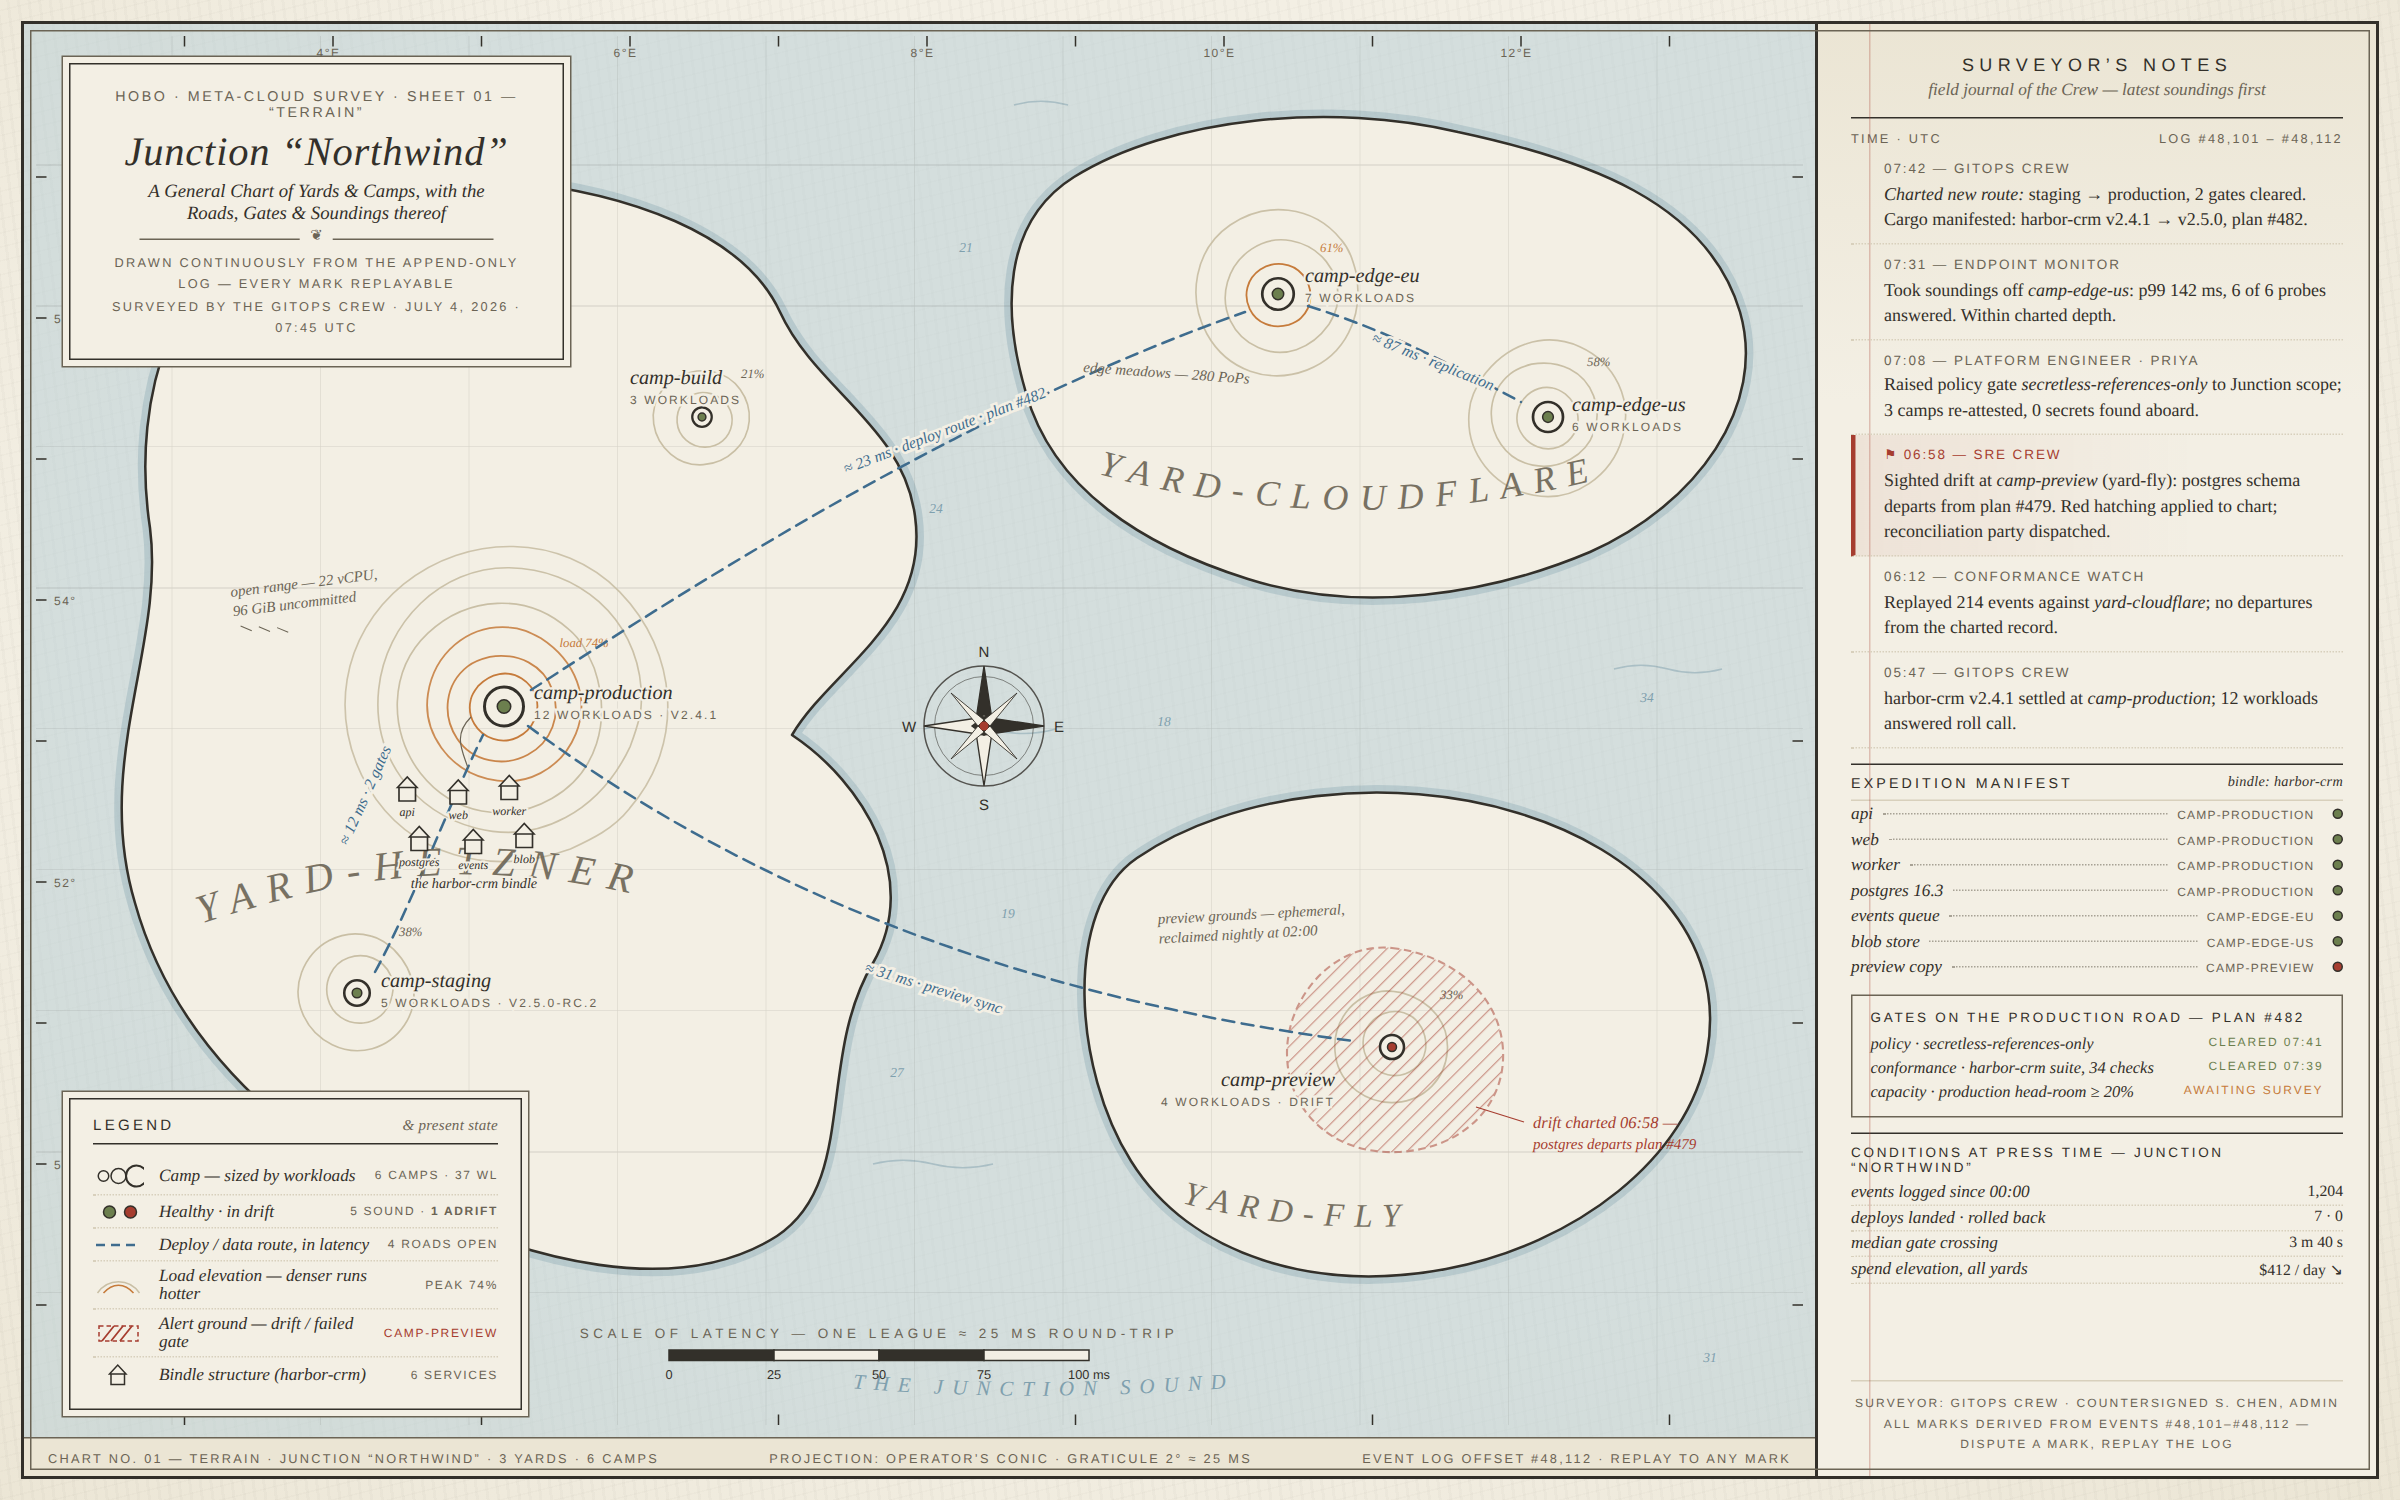
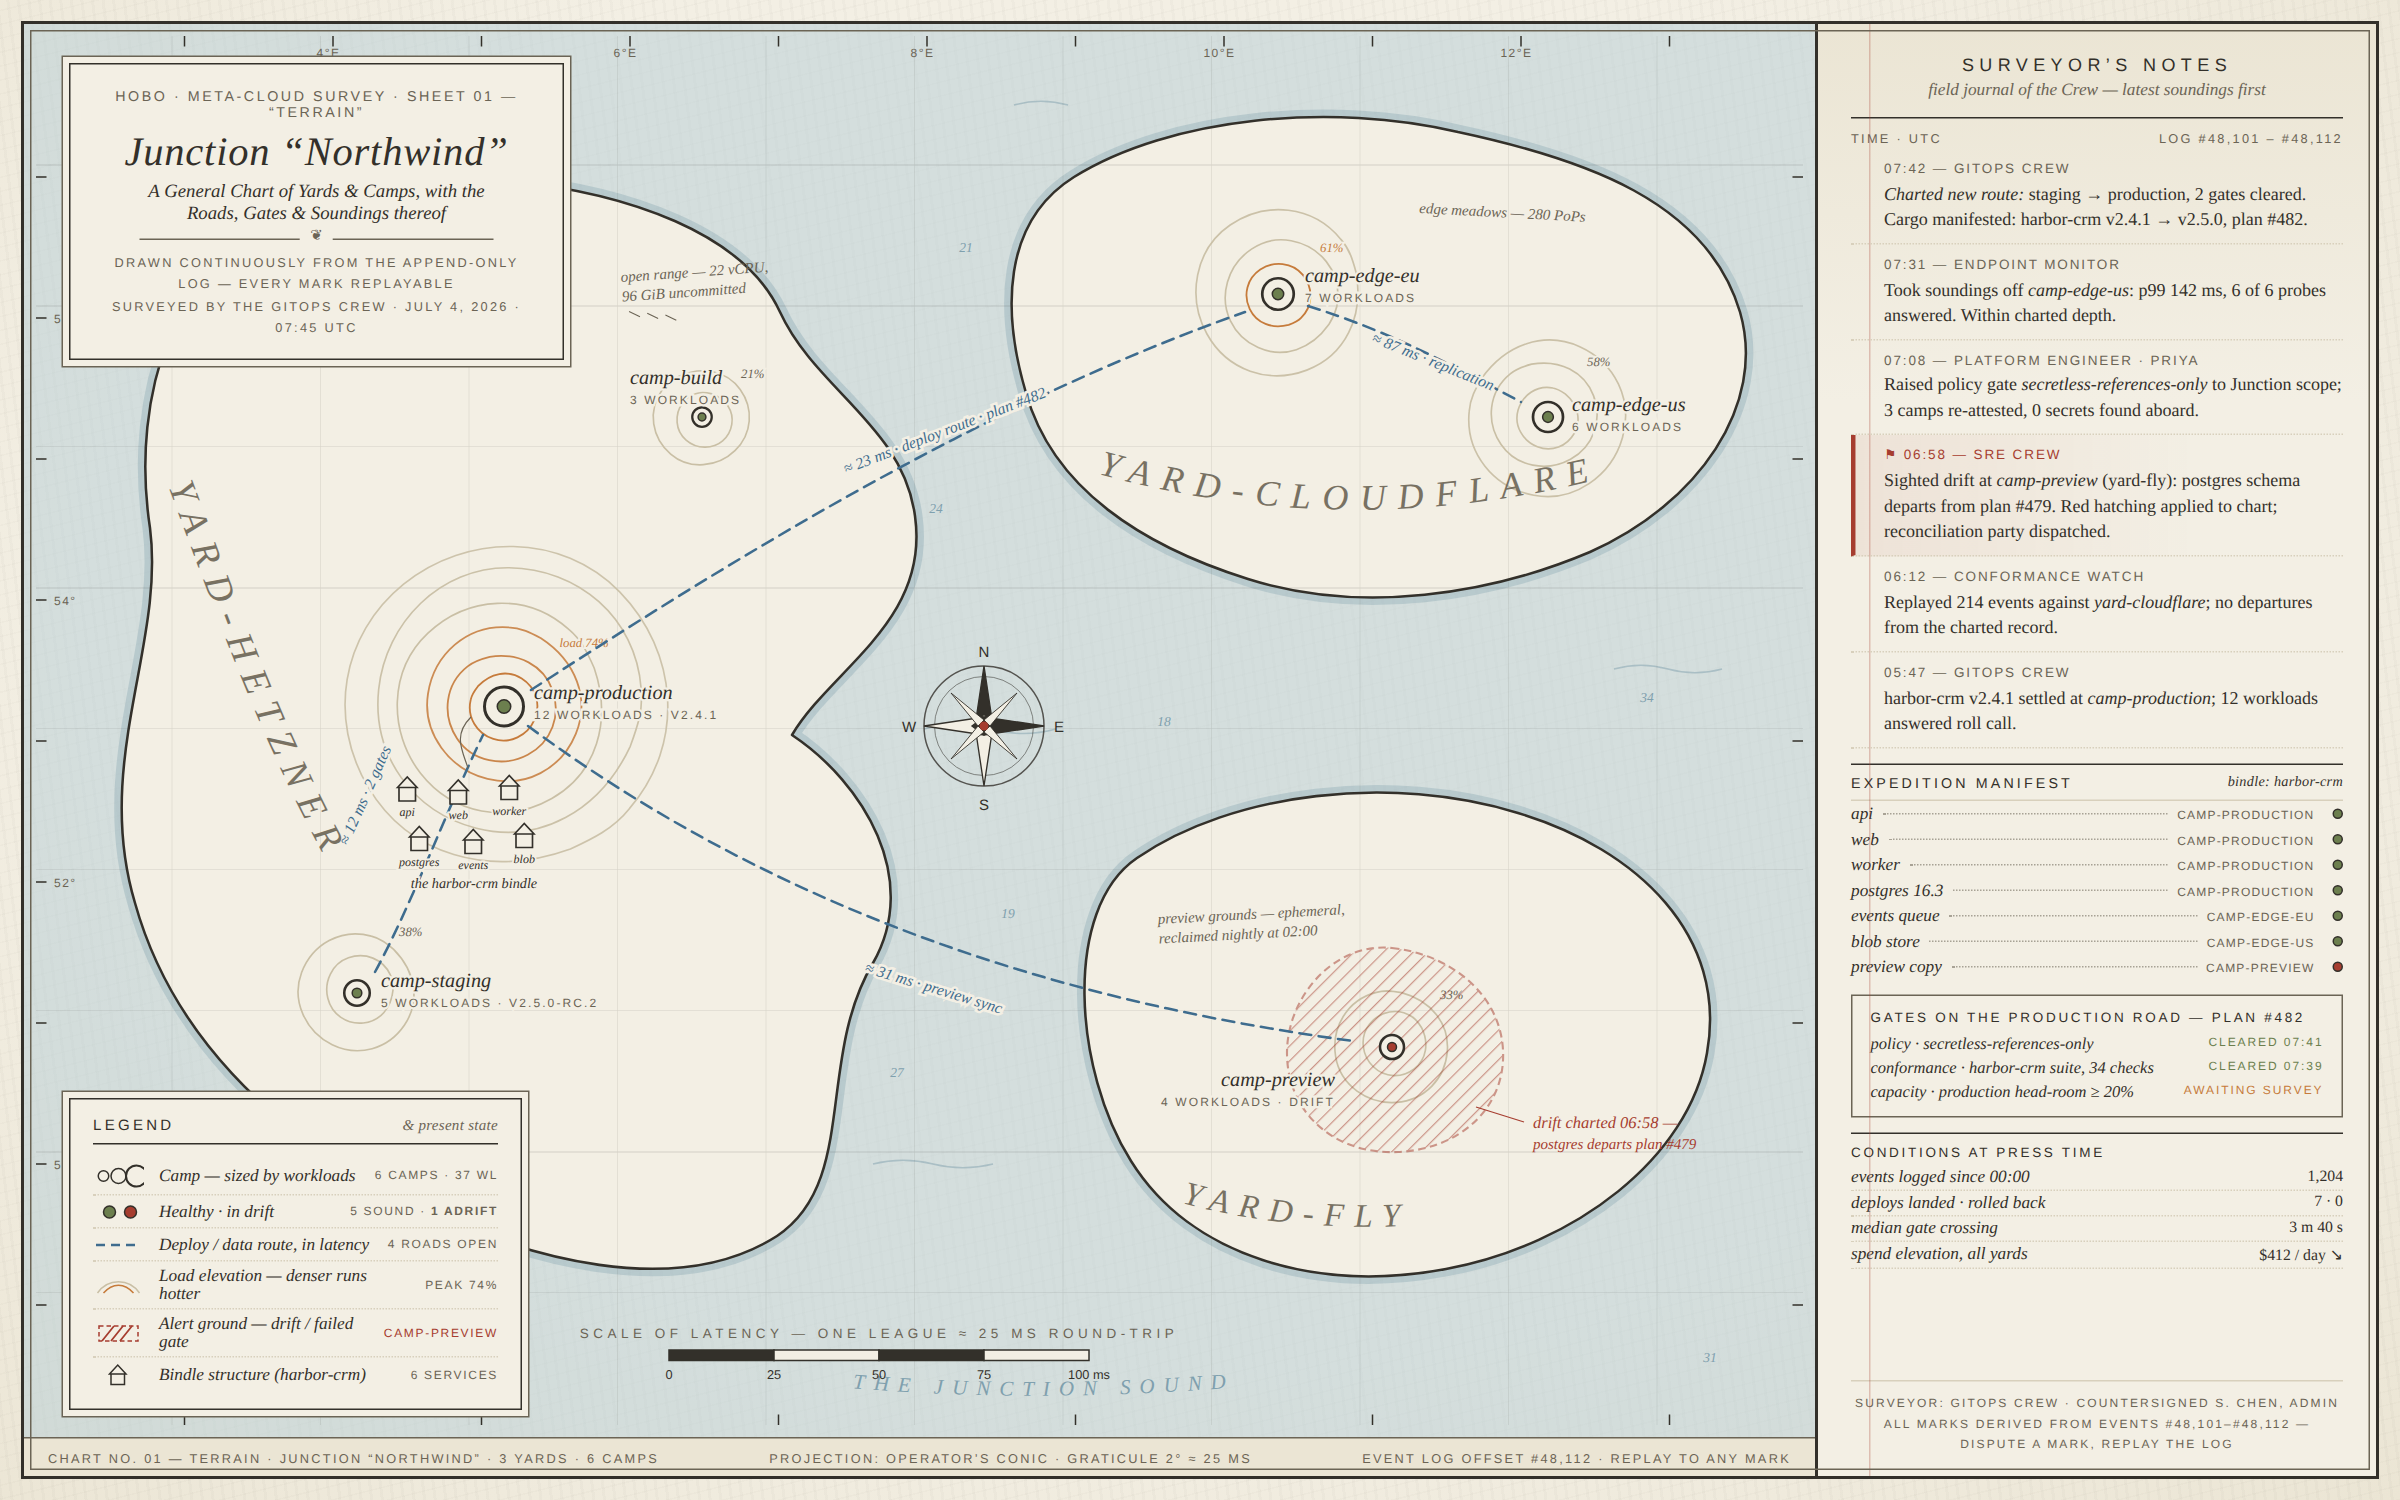
docs(design): add organism loop record and hardened evidence
Claude-Session: https://claude.ai/code/session_01193JfQgH8myHQ6ySCdWLrD

diff --git a/docs/design/explorations/control-plane-ux/01-terrain/mockup.html b/docs/design/explorations/control-plane-ux/01-terrain/mockup.html
@@ -114,7 +114,7 @@ body{
       <line x1="0" y1="0" x2="0" y2="7" stroke="#A63D2F" stroke-width="1.6"/>
     </pattern>
     <path id="ring" d="M0,-40 C22,-38 38,-24 40,-4 C42,16 30,34 10,39 C-10,44 -32,34 -39,14 C-46,-6 -38,-28 -18,-37 C-12,-40 -6,-40 0,-40 Z" fill="none" vector-effect="non-scaling-stroke"/>
-    <path id="hetzArc" d="M118,600 C250,556 340,556 480,600" fill="none"/>
+    <path id="hetzArc" d="M96,308 C150,452 188,564 300,706" fill="none"/>
     <path id="cfArc" d="M716,300 C840,334 960,332 1092,292" fill="none"/>
     <path id="flyArc" d="M772,786 C866,812 990,806 1088,768" fill="none"/>
     <path id="soundArc" d="M470,900 C620,922 780,918 930,894" fill="none"/>
@@ -209,11 +209,11 @@ body{
     <use href="#ring" transform="translate(914,680) rotate(58) scale(.52)"/>
   </g>
   <!-- contour index labels -->
-  <g font-size="8.5" font-style="italic" fill="#C67B3B">
+  <g font-size="8.5" font-style="italic" fill="#C67B3B" paint-order="stroke" stroke="#F3EFE4" stroke-width="2.5">
     <text x="357" y="415">load 74%</text>
     <text x="864" y="152">61%</text>
   </g>
-  <g font-size="8.5" font-style="italic" fill="#6B6455">
+  <g font-size="8.5" font-style="italic" fill="#6B6455" paint-order="stroke" stroke="#F3EFE4" stroke-width="2.5">
     <text x="250" y="608">38%</text>
     <text x="478" y="236">21%</text>
     <text x="1042" y="228">58%</text>
@@ -246,7 +246,7 @@ body{
 
   <!-- ==== yard place names ==== -->
   <g font-style="italic" fill="#6B6455" opacity=".9">
-    <text font-size="27" letter-spacing="9"><textPath href="#hetzArc">YARD-HETZNER</textPath></text>
+    <text font-size="25" letter-spacing="8"><textPath href="#hetzArc">YARD-HETZNER</textPath></text>
     <text font-size="24" letter-spacing="8"><textPath href="#cfArc">YARD-CLOUDFLARE</textPath></text>
     <text font-size="22" letter-spacing="7"><textPath href="#flyArc">YARD-FLY</textPath></text>
   </g>
@@ -324,12 +324,12 @@ body{
 
   <!-- ==== interior survey annotations ==== -->
   <g font-style="italic" fill="#6B6455">
-    <g transform="translate(138,382) rotate(-7)">
+    <g transform="translate(398,172) rotate(-4)">
       <text font-size="10">open range — 22 vCPU,</text>
       <text y="13" font-size="10">96 GiB uncommitted</text>
       <path d="M4,20 l7,4 M16,22 l7,4 M28,24 l7,4" stroke="#6B6455" stroke-width=".7"/>
     </g>
-    <g transform="translate(706,232) rotate(4)">
+    <g transform="translate(930,126) rotate(3)">
       <text font-size="10">edge meadows — 280 PoPs</text>
     </g>
     <g transform="translate(756,600) rotate(-3)">
@@ -427,7 +427,7 @@ body{
   </div>
 
   <div class="conditions">
-    <h3 class="cap">Conditions at press time — Junction “northwind”</h3>
+    <h3 class="cap">Conditions at press time</h3>
     <div class="crow"><span>events logged since 00:00</span><span class="cv">1,204</span></div>
     <div class="crow"><span>deploys landed · rolled back</span><span class="cv">7 · 0</span></div>
     <div class="crow"><span>median gate crossing</span><span class="cv">3 m 40 s</span></div>

diff --git a/docs/design/explorations/control-plane-ux/07-organism/README.md b/docs/design/explorations/control-plane-ux/07-organism/README.md
@@ -1,0 +1,131 @@
+# 07 Organism — "Systems are alive"
+
+**Thesis:** health is vitality, not status codes. The harbor-crm Bindle is rendered as a living
+organism in a petri dish: services are glowing organelles, camps are translucent membranes,
+event flow is vesicles moving through connective vessels, and operations telemetry is read the
+way a physician reads a body — heartbeat, respiration, temperature, metabolism. Incidents are
+immune responses; conformance tests are antibodies; the append-only event log is the genome
+every regeneration replays from.
+
+## Philosophy
+
+Dashboards teach operators to scan for red rectangles. Organisms teach a different literacy:
+you notice that something is *dimmer*, *inflamed*, or *breathing shallowly* long before it dies.
+Because HoBo's event log makes everything replayable, failure is not a terminal state — it is
+tissue damage that regenerates ("replayed 1,840 events, tissue regenerated in 74 s"). The UI's
+job is to make vitality legible at a glance: glow = health, size = allocated resources,
+vesicles = event flow, membranes = camp boundaries. Marcus (first-time dev) gets an instantly
+intuitive body metaphor; Priya (platform engineer) still gets exact numbers (p95 84 ms, depth
+214, $1.23/hr) attached to every organ.
+
+## Design principles
+
+1. **Nothing is rectangular.** Every container carries an asymmetric blob radius (e.g.
+   `42% 58% 60% 40% / 55% 45% 40% 60%`) or generous soft corners; even the log entries are
+   pills and the status dots are tiny blobs. Right angles read as machinery; this screen is tissue.
+2. **Glow is the primary channel.** Health is encoded as bioluminescence (layered radial-gradient
+   fill + outer box-shadow + inset shadow), not as icons or badges. The inflamed worker is coral
+   and *brighter*, because inflammation is heat.
+3. **Structure mirrors the scope model.** Organelles (services) sit inside membranes (camps:
+   hetzner-fsn1, cloudflare-edge); the dish is the Bindle; the header lineage names the Junction
+   and Yards. Containment is drawn, never listed.
+4. **Vitals are physiological instruments.** Deploys are an ECG, throughput is breathing, errors
+   are body temperature, cost is metabolism — each an SVG trace with one annotated event, never
+   a data table.
+5. **Numbers ride the metaphor, they don't replace it.** Every organic reading carries a precise
+   figure: "last beat: v2.5.0, 41 min ago", "36.8° nominal — 0.02% errors", "$1.23/hr".
+
+## Design system
+
+### Palette
+
+| Token | Hex | Role |
+|---|---|---|
+| `--plum` | `#140E1C` | abyss background (deep-sea plum) |
+| `--membrane` | `#241B33` | membrane / organelle body fill |
+| `--teal` | `#2DD4BF` | bioluminescent teal — healthy tissue, heartbeat, drift resorbed |
+| `--magenta` | `#E879F9` | vesicles / event flow, respiration, crew presence |
+| `--lime` | `#A3E635` | edge tissue (cloudflare organelles), metabolism, antibodies |
+| `--ink` | `#C9C3D9` | lavender-gray body text (≥ 4.5:1 on plum) |
+| `--coral` | `#FB7185` | inflammation / fever / immune response |
+| `--teal-glow` … `--coral-glow` | rgba derivatives | box-shadow bioluminescence per organ |
+
+### Type scale (single stack: Trebuchet MS / Segoe UI / Verdana)
+
+| Size | Weight | Use |
+|---|---|---|
+| 21px / 600 | header | bindle name |
+| 16px / 700 | organ | organelle names |
+| 14px / 400 | body | log entries, notes |
+| 12.5px / 600 + 0.14–0.16em tracking | sense | vital labels, section headings |
+| 11.5–12px / 400 | micro | organ metadata, annotations, legend |
+
+### Spacing & shape
+
+| Token / rule | Value |
+|---|---|
+| page padding | 22–24px |
+| card gaps | 14–20px |
+| blob radii | `--r-blob-a`, per-organ four-corner percentages, ±2–4° rotation |
+| soft container radii | 32–64px, always uneven per corner |
+| glow recipe | radial-gradient highlight at 36%/30% + outer shadow 24–40px + inset 14–24px |
+
+### Components
+
+- **Organelle** — blob div sized by allocated resources (postgres 228×192 is the largest organ),
+  name + version/cells/memory + one vital pulse line, tinted glow by health.
+- **Membrane** — translucent blob enclosing a camp's organelles, labeled with camp name and runtime.
+- **Vessel** — SVG cubic path between organ centers with 2–4 vesicle dots; magenta = queue/event flow.
+- **Vital** — rounded card: tracked lowercase sense label, plain-language reading, annotated SVG trace, footnote.
+- **Immune entry** — pill row with blob-shaped colored cell, bold event name, narrative, timestamp.
+
+## Look & feel
+
+Deep-sea documentary, not dashboard: a near-black plum abyss with faint teal/magenta ambient
+glows and drifting plankton dots. Two translucent membranes hold six softly glowing organelles
+connected by curved vessels carrying vesicles; the worker runs a mild coral fever with a note
+pinned beneath it. The right column reads like a bedside chart — ECG deploys, breathing traffic,
+a resorbed fever spike, a lean metabolic burn — and the immune log below narrates recovery in
+biological language. Everything is curved; the darkness feels calm, not ominous, because the
+organism is visibly alive.
+
+## Ideation log
+
+1. **Anatomical cross-section (single giant cell with labeled organelles à la biology textbook,
+   leader lines to a margin key)** — rejected: leader-line keys re-introduce list/table reading
+   and the textbook framing feels static, the opposite of "alive".
+2. **Full-body silhouette (humanoid figure; services mapped to heart/lungs/gut)** — rejected:
+   forcing six services onto fixed human organs breaks as soon as a bindle has a seventh service,
+   and the literal body is uncanny for infra; cell/tissue scale generalizes.
+3. **Animated ecosystem (JS-driven drifting organelles, pulsing glows, swimming vesicles)** —
+   rejected: the deliverable must render complete without JS; motion was traded for layered
+   static glow, plankton, and vesicle trails that imply flow.
+4. **Petri-dish top-down with radial vitals ringing the organism (circular gauges around the
+   dish)** — rejected: radial gauges compressed the four vitals into unreadable arcs at 1600×1000;
+   a stacked right-hand chart column keeps the physiological traces legible.
+
+## Hardening notes
+
+- **Pass 1 → 2:** organelles rendered as near-perfect ellipses — pushed to strongly asymmetric
+  four-corner radii (`65% 35% 55% 45% / 40% 65% 35% 60"` etc.) with ±2–4° rotations; the vein SVG
+  viewBox (992×636) didn't match the dish so vessels floated off their organs — rebuilt at
+  988×662 with `preserveAspectRatio="none"` and recomputed anchor points; swapped vital colors so
+  temperature owns coral (heat) and metabolism owns lime (energy); brightened vessels/vesicles;
+  enlarged membranes and organs to swallow dead space under postgres; added a faint abyssal
+  current and more plankton.
+- **Pass 2 → 3:** empty pocket under blob store inside the cloudflare membrane — filled with an
+  on-domain "osmosis is secretless" annotation (secretless references through the membrane);
+  temperature trace sat too low leaving a hollow band — raised the baseline, moved the fever
+  caption beside the spike, added a 36.6° axis whisper.
+
+## Distinctiveness check
+
+- **01 Terrain** — Terrain surveys a cartographic landscape from above; Organism looks *into* living tissue through a microscope, with no map, contours, or compass.
+- **02 Broadsheet** — Broadsheet sets typeset columns on newsprint; Organism has no columns, rules, or editorial voice — only glowing anatomy on an abyssal ground.
+- **03 Mission Control** — Mission Control is a hard-edged launch console of gauges and countdowns; Organism forbids right angles and reads health as vitality, not go/no-go.
+- **04 Quiet Garden** — Quiet Garden is calm, ambient restraint; Organism is saturated bioluminescence with fevers, immune responses, and visible pulse.
+- **05 Conversation** — Conversation is a Crew dialogue transcript; Organism has no chat at all — crews appear only as antibodies and attending physicians in an immune log.
+- **06 Brutalist Terminal** — Brutalist Terminal is monospace text-file honesty; Organism is anti-terminal: zero monospace dominance, zero phosphor green, everything curved and glowing.
+- **08 Metropolis** — Metropolis builds an isometric city of rigid architecture; Organism grows soft asymmetric cells — biology versus civil engineering.
+- **09 Timetable** — Timetable is a Swiss departures board of rows and columns; Organism contains no tabular grid anywhere, vitals are continuous physiological traces.
+- **10 Patchbay** — Patchbay is racked hardware with jacks and cables; Organism's connections are organic vessels carrying vesicles, not patch cords between units.
